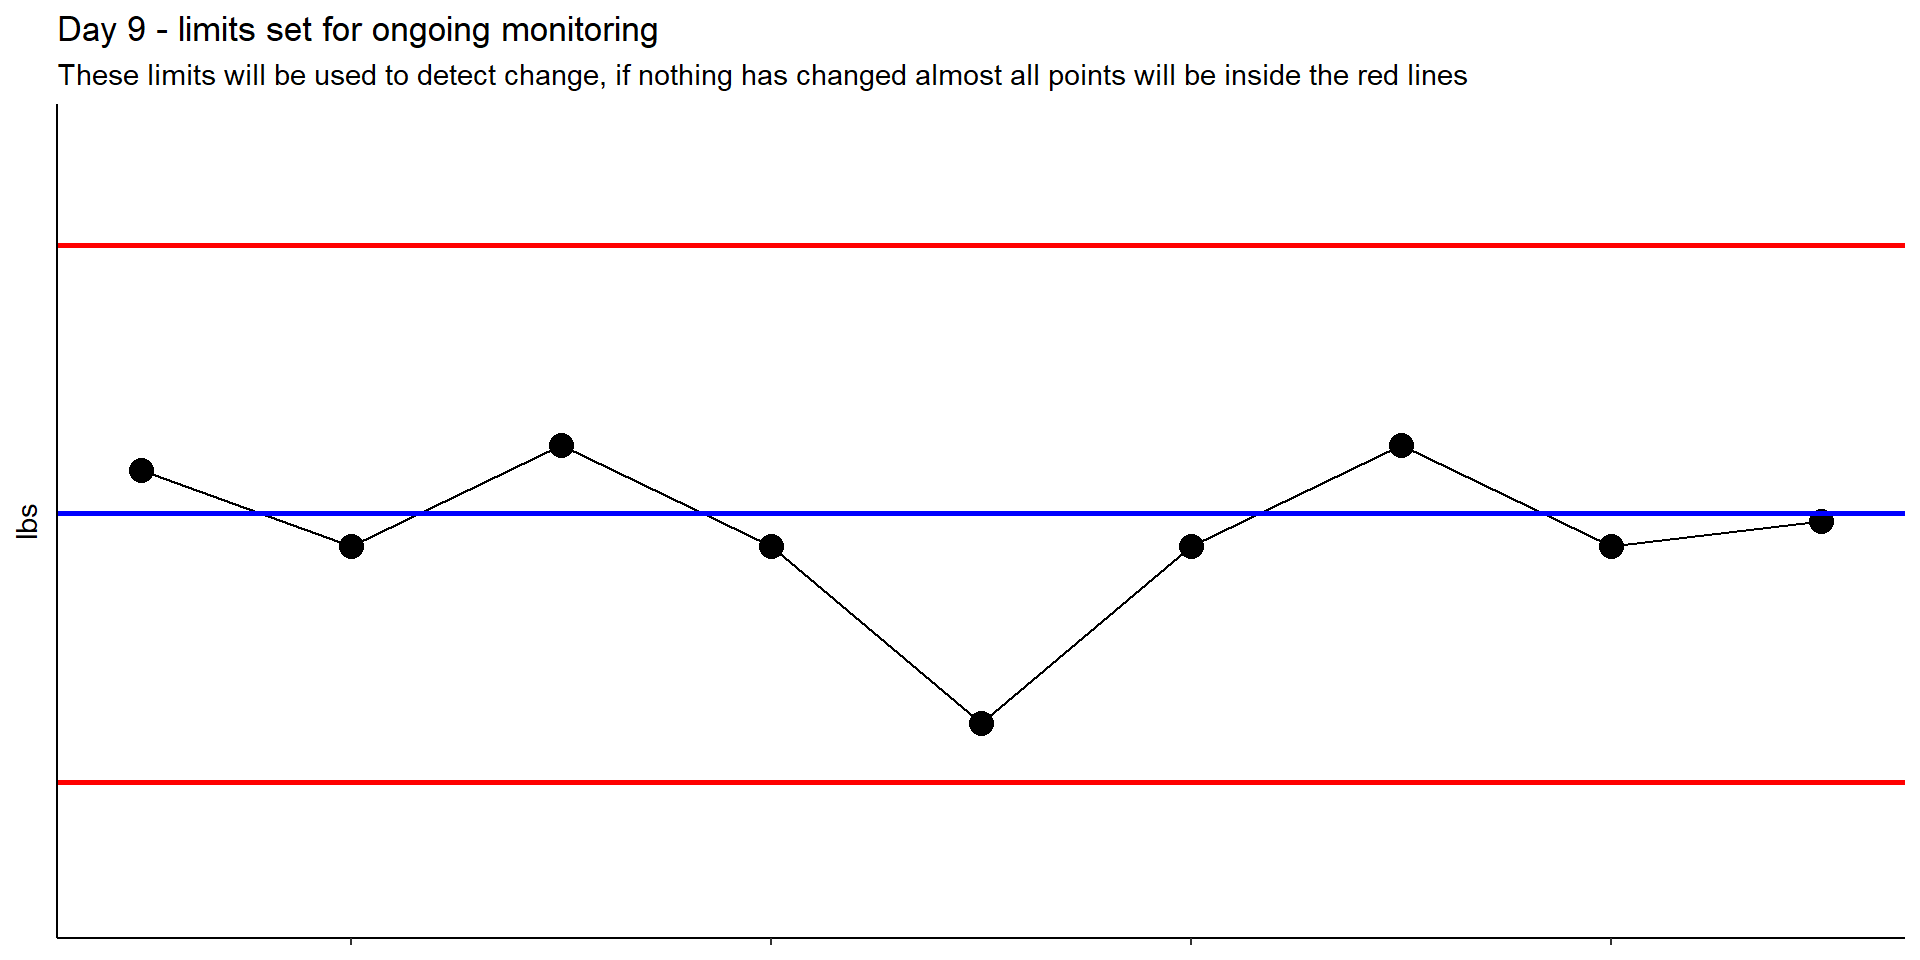
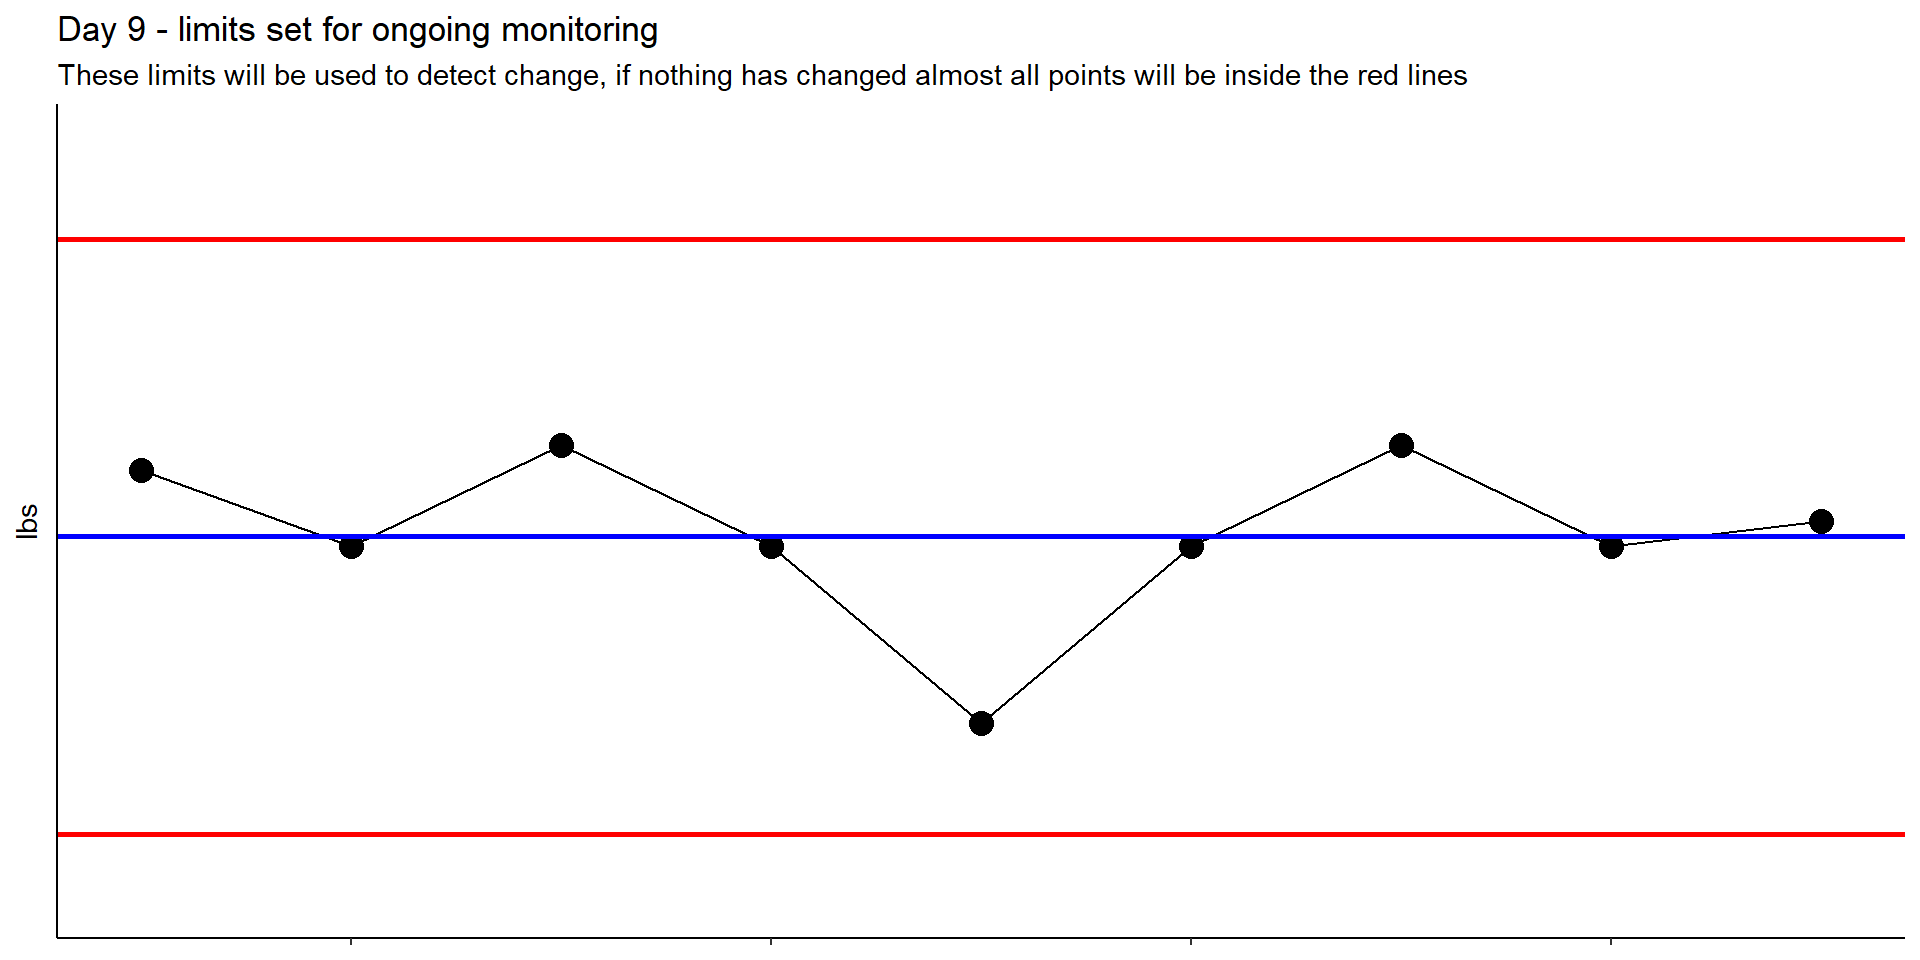
updates 7/9/25

Changed region(s): [[0.0312, 0.8125, 1.0, 0.875], [0.0312, 0.5312, 1.0, 0.5625], [0.0312, 0.25, 1.0, 0.2812]]

diff --git a/docs/realtime-SPC/index.html b/docs/realtime-SPC/index.html
@@ -346,7 +346,7 @@ ul.task-list li input[type="checkbox"] {
 <p>I might say: “Given how much variation there is in the data from day to day, it will be difficult to detect a change unless it is more than 2 pounds different from where we are starting”.</p>
 <p>I can’t reliably detect anything less than a 2 - 2.5 lb change! That’s good to know - I won’t get discouraged. It might take 1, 2, or even 3 weeks to lose that much.</p>
 <div class="tabset-margin-container"></div><div class="panel-tabset nav-pills">
-<ul class="nav nav-tabs" role="tablist"><li class="nav-item" role="presentation"><a class="nav-link active" id="tabset-2-1-tab" data-bs-toggle="tab" data-bs-target="#tabset-2-1" role="tab" aria-controls="tabset-2-1" aria-selected="true">Day 10, 7/2/25</a></li><li class="nav-item" role="presentation"><a class="nav-link" id="tabset-2-2-tab" data-bs-toggle="tab" data-bs-target="#tabset-2-2" role="tab" aria-controls="tabset-2-2" aria-selected="false">Day 11, 7/3/25</a></li><li class="nav-item" role="presentation"><a class="nav-link" id="tabset-2-3-tab" data-bs-toggle="tab" data-bs-target="#tabset-2-3" role="tab" aria-controls="tabset-2-3" aria-selected="false">Day 12, 7/4/25</a></li><li class="nav-item" role="presentation"><a class="nav-link" id="tabset-2-4-tab" data-bs-toggle="tab" data-bs-target="#tabset-2-4" role="tab" aria-controls="tabset-2-4" aria-selected="false">Day 13, Day 14</a></li><li class="nav-item" role="presentation"><a class="nav-link" id="tabset-2-5-tab" data-bs-toggle="tab" data-bs-target="#tabset-2-5" role="tab" aria-controls="tabset-2-5" aria-selected="false">Day 15, 7/7/25</a></li></ul>
+<ul class="nav nav-tabs" role="tablist"><li class="nav-item" role="presentation"><a class="nav-link active" id="tabset-2-1-tab" data-bs-toggle="tab" data-bs-target="#tabset-2-1" role="tab" aria-controls="tabset-2-1" aria-selected="true">Day 10, 7/2/25</a></li><li class="nav-item" role="presentation"><a class="nav-link" id="tabset-2-2-tab" data-bs-toggle="tab" data-bs-target="#tabset-2-2" role="tab" aria-controls="tabset-2-2" aria-selected="false">Day 11, 7/3/25</a></li><li class="nav-item" role="presentation"><a class="nav-link" id="tabset-2-3-tab" data-bs-toggle="tab" data-bs-target="#tabset-2-3" role="tab" aria-controls="tabset-2-3" aria-selected="false">Day 12, 7/4/25</a></li><li class="nav-item" role="presentation"><a class="nav-link" id="tabset-2-4-tab" data-bs-toggle="tab" data-bs-target="#tabset-2-4" role="tab" aria-controls="tabset-2-4" aria-selected="false">Day 13, Day 14</a></li><li class="nav-item" role="presentation"><a class="nav-link" id="tabset-2-5-tab" data-bs-toggle="tab" data-bs-target="#tabset-2-5" role="tab" aria-controls="tabset-2-5" aria-selected="false">Day 15, 7/7/25</a></li><li class="nav-item" role="presentation"><a class="nav-link" id="tabset-2-6-tab" data-bs-toggle="tab" data-bs-target="#tabset-2-6" role="tab" aria-controls="tabset-2-6" aria-selected="false">Day 16, 7/8/25</a></li><li class="nav-item" role="presentation"><a class="nav-link" id="tabset-2-7-tab" data-bs-toggle="tab" data-bs-target="#tabset-2-7" role="tab" aria-controls="tabset-2-7" aria-selected="false">Day 17, 7/9/25</a></li></ul>
 <div class="tab-content nav-pills">
 <div id="tabset-2-1" class="tab-pane active" role="tabpanel" aria-labelledby="tabset-2-1-tab">
 <div class="cell">
@@ -416,15 +416,38 @@ ul.task-list li input[type="checkbox"] {
 </figure>
 </div>
 </div>
-<div class="cell-output cell-output-stdout">
-<pre><code>&lt;ScaleContinuousPosition&gt;
- Range:  
- Limits:  243 --  249</code></pre>
-</div>
 </div>
 <p>Day 15 assessment: No detectable change</p>
 <p>Day 15 decision: evaluate inputs, try to create change. Start tracking physical activity and minutes.</p>
 <p>Day 15 comment: Back from the holiday, time to get serious. Continue daily tracking.</p>
+</div>
+<div id="tabset-2-6" class="tab-pane" role="tabpanel" aria-labelledby="tabset-2-6-tab">
+<div class="cell">
+<div class="cell-output-display">
+<div>
+<figure class="figure">
+<p><img src="index_files/figure-html/unnamed-chunk-19-1.png" class="img-fluid figure-img" width="960"></p>
+</figure>
+</div>
+</div>
+</div>
+<p>Nothing much to note, keep monitoring</p>
+</div>
+<div id="tabset-2-7" class="tab-pane" role="tabpanel" aria-labelledby="tabset-2-7-tab">
+<div class="cell">
+<div class="cell-output-display">
+<div>
+<figure class="figure">
+<p><img src="index_files/figure-html/unnamed-chunk-20-1.png" class="img-fluid figure-img" width="960"></p>
+</figure>
+</div>
+</div>
+</div>
+<p>Day 17 assessment: This is the lowest point observed so far. It’s almost outside LCL.</p>
+<p>Day 17 decision: Keep monitoring, keep focusing on inputs.</p>
+<p>Day 17 comments: I won’t be surprised to see day 18 or 19 back higher again. While this point almost being outside LCL is encouraging, I want confirmation through ongoing monitoring before deciding that this represents a real change.</p>
+<p>Can you imagine tracking something like this without a control chart or at least a run chart (put the dots in order as they are observed!)? It might be very discouraging. I have context with the chart, to see if a change is “real” or not. Another way to put it, all these points are actually real, but I want to know if they represent my goal, which is a sustained reduction.</p>
+<p>If day 17 is a “real” decrease it will be great news. I want to point out that even if it is a real change, we don’t know when the change happened exactly. Given how much variation is present from day to day, my weight might have been slowly decreasing for awhile, we just weren’t able to detect it yet. Can’t wait to see what happens tomorrow.</p>
 </div>
 </div>
 </div>
